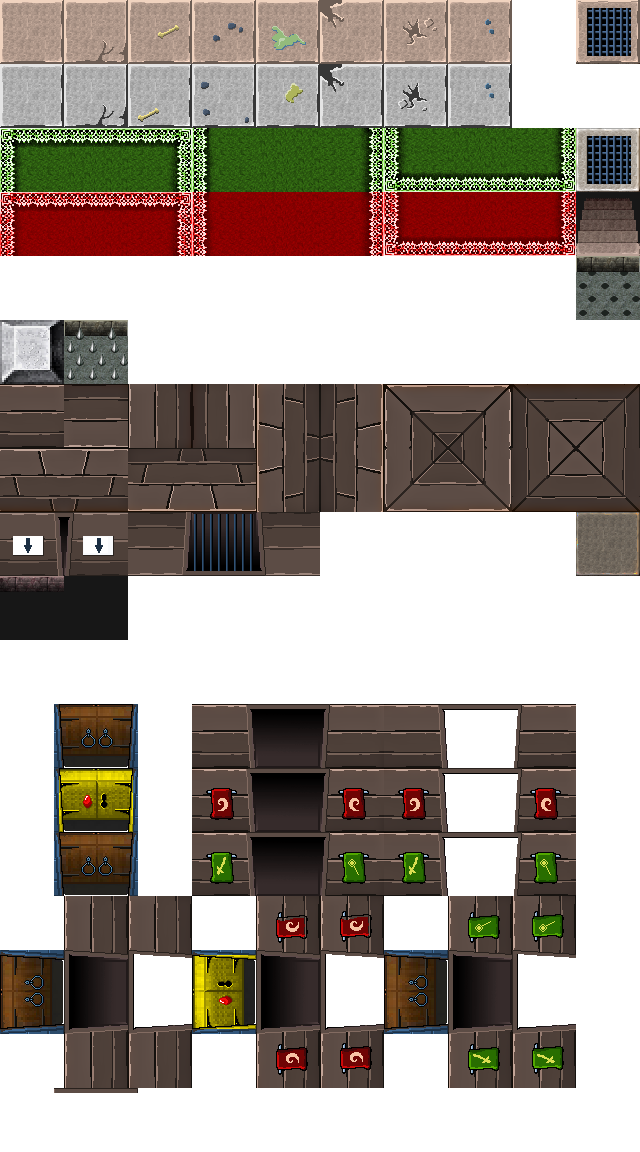
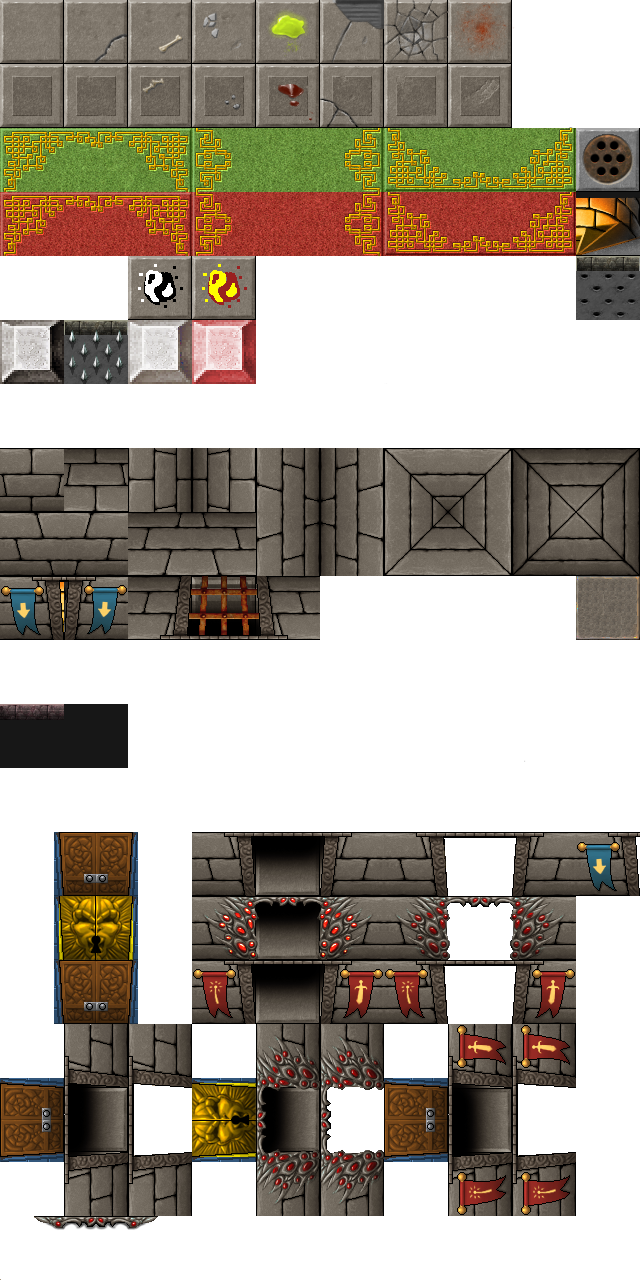
ADD Temple (WIP)

diff --git a/src/WitchBlastGame.cpp b/src/WitchBlastGame.cpp
@@ -420,6 +420,7 @@ void WitchBlastGame::startNewGame(bool fromSaveFile)
   gameTime = 0.0f;
   initEvents();
   scoreSaveFile = "";
+  interaction.active = false;
 
   // cleaning all entities
   EntityManager::getInstance().clean();
@@ -560,12 +561,14 @@ void WitchBlastGame::startNewLevel()
 
 void WitchBlastGame::playLevel(bool isFight)
 {
+  /*
   if (level % 3 == 1)
     ImageManager::getInstance().getImage(IMAGE_TILES)->loadFromFile("media/tiles01.png");
   else if (level % 3 == 2)
     ImageManager::getInstance().getImage(IMAGE_TILES)->loadFromFile("media/tiles02.png");
   else
     ImageManager::getInstance().getImage(IMAGE_TILES)->loadFromFile("media/tiles03.png");
+    */
 
   isPlayerAlive = true;
 
@@ -1163,6 +1166,8 @@ void WitchBlastGame::updateRunningGame()
   onUpdate();
 
   verifyDoorUnlocking();
+  checkInteraction();
+
   if (roomClosed)
   {
     if (getEnemyCount() == 0)
@@ -1232,6 +1237,12 @@ void WitchBlastGame::renderGame()
 void WitchBlastGame::renderHud()
 {
   if (lifeBar.toDisplay) renderLifeBar();
+
+  if (interaction.active)
+  {
+    write(interaction.label, 20, GAME_WIDTH / 2, 480, ALIGN_CENTER,sf::Color::White, app, 2, 2);
+  }
+
   EntityManager::getInstance().renderAfter(app, 5000);
 }
 
@@ -2505,7 +2516,7 @@ void WitchBlastGame::refreshMap()
         (MAP_WIDTH / 2) * TILE_WIDTH + TILE_WIDTH / 2,
         TILE_HEIGHT / 2, 192, 64, 1);
     keystoneEntity->setZ(1000);
-    keystoneEntity->setFrame(17);
+    keystoneEntity->setFrame(19);
     keystoneEntity->setType(ENTITY_EFFECT);
   }
   if (currentMap->getNeighbourDown())
@@ -2515,7 +2526,7 @@ void WitchBlastGame::refreshMap()
         MAP_HEIGHT * TILE_WIDTH - TILE_HEIGHT / 2, 192, 64, 1);
     keystoneEntity->setZ(1000);
     keystoneEntity->setAngle(180);
-    keystoneEntity->setFrame(17);
+    keystoneEntity->setFrame(19);
     keystoneEntity->setType(ENTITY_EFFECT);
   }
   if (currentMap->getNeighbourLeft())
@@ -2525,7 +2536,7 @@ void WitchBlastGame::refreshMap()
         (MAP_HEIGHT / 2) * TILE_HEIGHT + TILE_HEIGHT / 2, 192, 64, 1);
     keystoneEntity->setZ(1000);
     keystoneEntity->setAngle(270);
-    keystoneEntity->setFrame(17);
+    keystoneEntity->setFrame(19);
     keystoneEntity->setType(ENTITY_EFFECT);
   }
   if (currentMap->getNeighbourRight())
@@ -2535,7 +2546,7 @@ void WitchBlastGame::refreshMap()
         (MAP_HEIGHT / 2) * TILE_HEIGHT + TILE_HEIGHT / 2, 192, 64, 1);
     keystoneEntity->setZ(1000);
     keystoneEntity->setAngle(90);
-    keystoneEntity->setFrame(17);
+    keystoneEntity->setFrame(19);
     keystoneEntity->setType(ENTITY_EFFECT);
   }
 }
@@ -2970,6 +2981,11 @@ void WitchBlastGame::generateMap()
                     (TILE_HEIGHT * MAP_HEIGHT * 0.5f),
                     ChestExit, false);
   }
+  else if (currentMap->getRoomType() == roomTypeTemple)
+  {
+    currentMap->generateTempleRoom();
+    currentMap->setCleared(true);
+  }
   else  // "normal" room
     currentMap->randomize(currentMap->getRoomType());
 }
@@ -3317,6 +3333,22 @@ void WitchBlastGame::generateChallengeBonus(float x, float y)
       ItemEntity* newItem = new ItemEntity(ItemCopperCoin, x, y);
       newItem->setVelocity(Vector2D(90.0f + rand()% 150));
       newItem->setViscosity(0.96f);
+    }
+  }
+}
+
+void WitchBlastGame::checkInteraction()
+{
+  interaction.active = false;
+
+  if (currentMap->getRoomType() == roomTypeTemple)
+  {
+    int divinity = currentMap->getDivinity(player->getX() / TILE_WIDTH, player->getZ() / TILE_HEIGHT);
+    if (divinity > -1)
+    {
+      interaction.active = true;
+      interaction.id = divinity;
+      interaction.label = "Press [return] to worship this divinity";
     }
   }
 }

diff --git a/src/DungeonMap.h b/src/DungeonMap.h
@@ -3,6 +3,7 @@
 
 #include "sfml_game/GameMap.h"
 #include "sfml_game/MyTools.h"
+#include "Constants.h"
 #include <list>
 
 const int MAP_NORMAL_FLOOR  =   7;
@@ -10,32 +11,41 @@ const int MAP_STAIRS_UP     =   39;
 const int MAP_DOOR_OPEN     =   49;
 const int MAP_WALL          =   50;
 const int MAP_DOOR          =   51;
-const int MAP_WALL_7        =   66;
-const int MAP_WALL_77       =   68;
-const int MAP_WALL_8        =   60;
-const int MAP_WALL_9        =   67;
-const int MAP_WALL_99       =   69;
-const int MAP_WALL_4        =   62;
-const int MAP_WALL_6        =   63;
-const int MAP_WALL_1        =   76;
-const int MAP_WALL_11       =   78;
-const int MAP_WALL_2        =   61;
-const int MAP_WALL_3        =   77;
-const int MAP_WALL_33       =   79;
 
-const int MAP_WALL_87       =   70;
-const int MAP_WALL_89       =   71;
-const int MAP_WALL_21       =   72;
-const int MAP_WALL_23       =   73;
-const int MAP_WALL_47       =   64;
-const int MAP_WALL_41       =   74;
-const int MAP_WALL_69       =   65;
-const int MAP_WALL_63       =   75;
+// temple
+const int MAP_TEMPLE          =   42;
+const int MAP_TEMPLE_WALL     =   52;
 
-const int MAP_WALL_X        =   89;
+// walls
+const int MAP_WALL_7        =   76;
+const int MAP_WALL_77       =   78;
+const int MAP_WALL_8        =   70;
+const int MAP_WALL_9        =   77;
+const int MAP_WALL_99       =   79;
+const int MAP_WALL_4        =   72;
+const int MAP_WALL_6        =   73;
+const int MAP_WALL_1        =   86;
+const int MAP_WALL_11       =   88;
+const int MAP_WALL_2        =   71;
+const int MAP_WALL_3        =   87;
+const int MAP_WALL_33       =   89;
+const int MAP_WALL_87       =   80;
+const int MAP_WALL_89       =   81;
+const int MAP_WALL_21       =   82;
+const int MAP_WALL_23       =   83;
+const int MAP_WALL_47       =   74;
+const int MAP_WALL_41       =   84;
+const int MAP_WALL_69       =   75;
+const int MAP_WALL_63       =   85;
+const int MAP_WALL_EXIT_L   =   90;
+const int MAP_WALL_EXIT_R   =   91;
+const int MAP_WALL_START_L  =   92;
+const int MAP_WALL_START_M  =   93;
+const int MAP_WALL_START_R  =   94;
+const int MAP_WALL_X        =   99;
 
-const int MAP_GRID          =   9;
-const int MAP_HOLE          =   90;
+const int MAP_GRID          =   29;
+const int MAP_HOLE          =   110;
 const int MAP_HOLE_TOP      =   MAP_HOLE;
 const int MAP_HOLE_BOTTOM   =   MAP_HOLE + 1;
 
@@ -54,7 +64,8 @@ enum roomTypeEnum
   roomTypeBonus,
   roomTypeExit,
   roomTypeStarting,
-  roomTypeChallenge
+  roomTypeChallenge,
+  roomTypeTemple
 };
 
 class DungeonMap : public GameMap
@@ -73,6 +84,8 @@ class DungeonMap : public GameMap
     bool isWalkable(int x, int y);
     bool isFlyable(int x, int y);
     bool isShootable(int x, int y);
+
+    int getDivinity(int x, int y);
 
     bool containsHealth();
 
@@ -104,6 +117,8 @@ class DungeonMap : public GameMap
     Vector2D generateBonusRoom();
     Vector2D generateMerchantRoom();
     Vector2D generateKeyRoom();
+    void generateTemple(int x, int y, enumDivinityType type);
+    void generateTempleRoom();
     void addRandomGrids(int n);
 
     void addItem(int itemType, float x, float y, bool merch);

diff --git a/src/DungeonMap.cpp b/src/DungeonMap.cpp
@@ -268,6 +268,16 @@ roomTypeEnum DungeonMap::getNeighbourDown()
   else return roomTypeNULL;
 }
 
+int DungeonMap::getDivinity(int x, int y)
+{
+  if (x <= 0 || (x >= MAP_WIDTH - 1) || y <= 0 || (y >= MAP_HEIGHT - 1)) return -1;
+
+  if (map[x][y] >= MAP_TEMPLE && map[x][y] < MAP_TEMPLE + NB_DIVINITY)
+    return (map[x][y] - MAP_TEMPLE);
+  else
+    return -1;
+}
+
 void DungeonMap::initRoom()
 {
   int x0 = MAP_WIDTH / 2;
@@ -317,11 +327,15 @@ void DungeonMap::initRoom()
 
 
 
-  for ( i = 1 ; i < width - 1 ; i++)
-    for ( j = 1 ; j < height - 1 ; j++)
+  for ( j = 1 ; j < height - 1 ; j++)
+    for ( i = 1 ; i < width - 1 ; i++)
     {
-      map[i][j] = 0;
-      if (rand()%7 == 0) map[i][j] = rand()%(MAP_NORMAL_FLOOR + 1);
+      //map[i][j] = 0;
+      //if (rand()%7 == 0) map[i][j] = rand()%(MAP_NORMAL_FLOOR + 1);
+
+      map[i][j] = rand()%(MAP_NORMAL_FLOOR + 1);
+      while (map[i][j] == map[i - 1][j] || map[i][j] == map[i][j - 1] || map[i][j] == map[i - 1][j - 1] || map[i][j] == map[i + 1][j - 1])
+        map[i][j] = rand()%(MAP_NORMAL_FLOOR + 1);
     }
 
   if (gameFloor != NULL)
@@ -424,6 +438,43 @@ Vector2D DungeonMap::generateBonusRoom()
   return (Vector2D(x0 * TILE_WIDTH + TILE_WIDTH / 2, y0 * TILE_HEIGHT + TILE_HEIGHT / 2));
 }
 
+void DungeonMap::generateTemple(int x, int y, enumDivinityType type)
+{
+  map[x - 1][y - 1] = MAP_TEMPLE_WALL + (int)type;
+  map[x][y - 1] = MAP_TEMPLE_WALL + (int)type;
+  map[x + 1][y - 1] = MAP_TEMPLE_WALL + (int)type;
+
+  map[x - 1][y] = MAP_TEMPLE_WALL + (int)type;
+  map[x][y] = MAP_TEMPLE + (int)type;
+  map[x + 1][y] = MAP_TEMPLE_WALL + (int)type;
+}
+
+void DungeonMap::generateTempleRoom()
+{
+  initRoom();
+  int x0 = MAP_WIDTH / 2;
+  int y0 = MAP_HEIGHT / 2;
+
+  if (rand() % 3 == 0)
+  {
+    if (rand() % 2 == 0) initPattern(PatternSmallDisc);
+    else initPattern(PatternSmallStar);
+  }
+
+  if (rand() % 2 == 0)
+  {
+    // one temple
+    generateTemple(x0, y0, (enumDivinityType)(rand() % NB_DIVINITY));
+  }
+  else
+  {
+    // two temples
+    generateTemple(x0 - 2, y0, DivinityHeal);
+    generateTemple(x0 + 2, y0, DivinityPower);
+  }
+
+}
+
 void DungeonMap::generateCarpet(int x0, int y0, int w, int h, int n)
 {
   int xf = x0 + w - 1;
@@ -489,8 +540,8 @@ void DungeonMap::generateExitRoom()
   initRoom();
   int x0 = MAP_WIDTH / 2;
   map[x0][0] = MAP_STAIRS_UP;
-  map[x0 - 1][0] = 80;
-  map[x0 + 1][0] = 81;
+  map[x0 - 1][0] = MAP_WALL_EXIT_L;
+  map[x0 + 1][0] = MAP_WALL_EXIT_R;
 
   if (rand() % 3 == 0) initPattern(PatternBorder);
 }
@@ -516,9 +567,9 @@ void DungeonMap::generateRoomWithoutHoles(int type)
 
       if (game().getLevel() > 1)
       {
-        map[x0 - 1][MAP_HEIGHT - 1] = 82;
-        map[x0][MAP_HEIGHT - 1]     = 83;
-        map[x0 + 1][MAP_HEIGHT - 1] = 84;
+        map[x0 - 1][MAP_HEIGHT - 1] = MAP_WALL_START_L;
+        map[x0][MAP_HEIGHT - 1]     = MAP_WALL_START_M;
+        map[x0 + 1][MAP_HEIGHT - 1] = MAP_WALL_START_R;
       }
     }
     else if (roomType == roomTypeBoss && (game().getLevel() == 2 || game().getLevel() > 5) ) // giant slime

diff --git a/src/PlayerEntity.cpp b/src/PlayerEntity.cpp
@@ -15,6 +15,8 @@
 #include <iostream>
 #include <sstream>
 
+#define SPIRAL_STAIRCASE
+
 const int xHalo[10][3] =
 {
   { 6, 6, 6},
@@ -414,7 +416,7 @@ void PlayerEntity::animate(float delay)
                                                     TILE_HEIGHT / 2, 64, 64, 1);
     doorEntity->setZ(TILE_HEIGHT);
     doorEntity->setImagesProLine(10);
-    doorEntity->setFrame(119);
+    doorEntity->setFrame(139);
     doorEntity->setType(ENTITY_EFFECT);
   }
 #endif

diff --git a/src/WitchBlastGame.h b/src/WitchBlastGame.h
@@ -655,6 +655,11 @@ private:
   void verifyDoorUnlocking();
 
   /*!
+   *  \brief Checks if player can interact with something
+   */
+  void checkInteraction();
+
+  /*!
    *  \brief Plays a music
    *
    * Plays a music.
@@ -868,6 +873,13 @@ private:
   StructScore lastScore;
   void loadHiScores();
   void saveHiScores();
+
+  struct StructInteraction
+  {
+    bool active;
+    int id;
+    std::string label;
+  } interaction;
 };
 
 /*!

diff --git a/src/Constants.h b/src/Constants.h
@@ -312,6 +312,14 @@ const float LIGHTNING_VISCOSITY_INCREASE[MAX_SHOT_LEVEL]   // Air resistance
 const float FIRE_DAMAGE_INCREASE[MAX_SHOT_LEVEL]   // Fire damage's bonus
     = { 1.15f, 1.3f, 1.45f };
 
+// divinity
+enum enumDivinityType {
+  DivinityHeal,
+  DivinityPower,
+
+  NB_DIVINITY
+};
+
 // entity type
 const int ENTITY_PLAYER = 1;
 const int ENTITY_FAMILIAR = 2;

diff --git a/src/DoorEntity.cpp b/src/DoorEntity.cpp
@@ -50,7 +50,7 @@ void DoorEntity::render(sf::RenderTarget* app)
   if (!isVisible) return;
 
   float xl, yl, xr, yr;
-  float yTranslate = 11 * TILE_HEIGHT;
+  float yTranslate = 13 * TILE_HEIGHT;
 
   if (direction == 8)
   {

diff --git a/src/GameFloor.cpp b/src/GameFloor.cpp
@@ -117,6 +117,9 @@ void GameFloor::displayToConsole()
       case roomTypeChallenge:
         printf("?");
         break;
+      case roomTypeTemple:
+        printf("+");
+        break;
       }
     }
     printf("\n");
